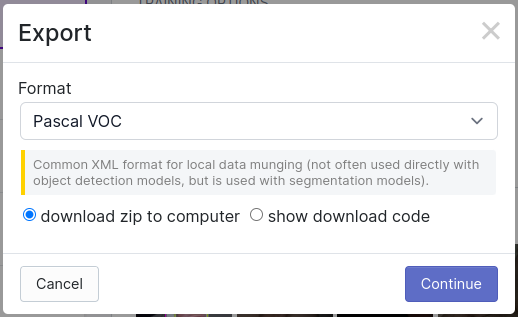
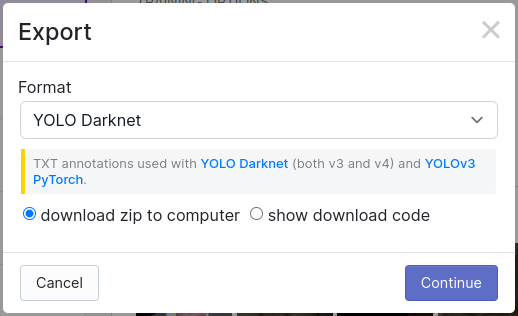
Update read me + modeling file names

diff --git a/modeling/prepare_roboflow_data.py b/modeling/prepare_roboflow_data.py
@@ -7,8 +7,8 @@ IMG_OUTDIR = './data/images'
 
 TRAIN_FILE = 'data/train.txt'
 VALID_FILE = 'data/valid.txt'
-LABELS_FILE = 'data/duckpuc.names'
-CONFIG_FILE = 'data/duckpuc.data'
+LABELS_FILE = 'data/modeling.names'
+CONFIG_FILE = 'data/modeling.data'
 
 # Converts the Roboflow Yolo Darknet structure to a structure 
 # That works for this project

diff --git a/README.md b/README.md
@@ -1,10 +1,9 @@
-# WearMask: Real-time In-browser Face Mask Detection
+# DickDetector: Real-time In-browser Dick Detection
 
-###  [facemask-detection.com](https://facemask-detection.com) | [arXiv](https://arxiv.org/abs/2101.00784) | [Deployment part](https://github.com/waittim/facemask-detection) 
+### duckpuc
 
-![products.jpg](https://github.com/waittim/waittim.github.io/raw/master/img/products.jpg)
-
-
+This model is used in [duckpuc.com](https://duckpuc.com).
+You can see how to integrate this model into a ncnn+WASM app in [this repo]()
 
 ## Requirements
 
@@ -14,18 +13,30 @@ Please use Python 3.8 with all [requirements.txt](https://github.com/ultralytics
 $ pip install -r requirements.txt
 ```
 
+## 0. Modeling
 
-## Modeling
+The data for this model was created and labeled using [`roboflow`](https://roboflow.com/), a platform used for training of computer vision models. If you want to explore the data used to train this model (beware, adult content), please download it from [here]().
 
-The data has been saved in `./modeling/data/`, if you added any extra image and annotation, please re-run the code in [**10-preparation-process.ipynb**](https://github.com/waittim/mask-detector/blob/master/modeling/10-preparation-process.ipynb) to get the new training set and test set.
+If you want to create your own data set, you can use `roboflow` to create a new `Image Dataset`.
+To use it in this project, use the `Export > YOLO Darknet` format, download the `zip` file and extract it into the `modeling\data\roboflow` folder.
 
-The following steps work on Google Colab.
+![roboflow-export.png](https://github.com/lizozom/dick-detector/tree/master/img/roboflow-export.png)
+
+The file structure needs to be slightly adjusted to be used by this model. Do so by running:
+
+```
+$ cd modeling
+$ python prepare_roboflow_data.py
+```
+
+This will populate the `modeling/data/images` and `modeling/data/labels` folders.
+It will also update the content `modeling.names` and `modeling.names` files.
 
 ### 1. Training
 
 Run this code to train the model based on the pretrained weights **yolo-fastest.weights** from COCO.
 ```bash
-$ python3 train.py --cfg yolo-fastest.cfg --data data/face_mask.data --weights weights/yolo-fastest.weights --epochs 120
+$ python3 train.py --cfg yolo-fastest.cfg --data data/modeling.data --weights weights/yolo-fastest.weights --epochs 120
 ```
 The training process would cost several hours. When the training ended, you can use `from utils import utils; utils.plot_results()` to get the training graphs.
 
